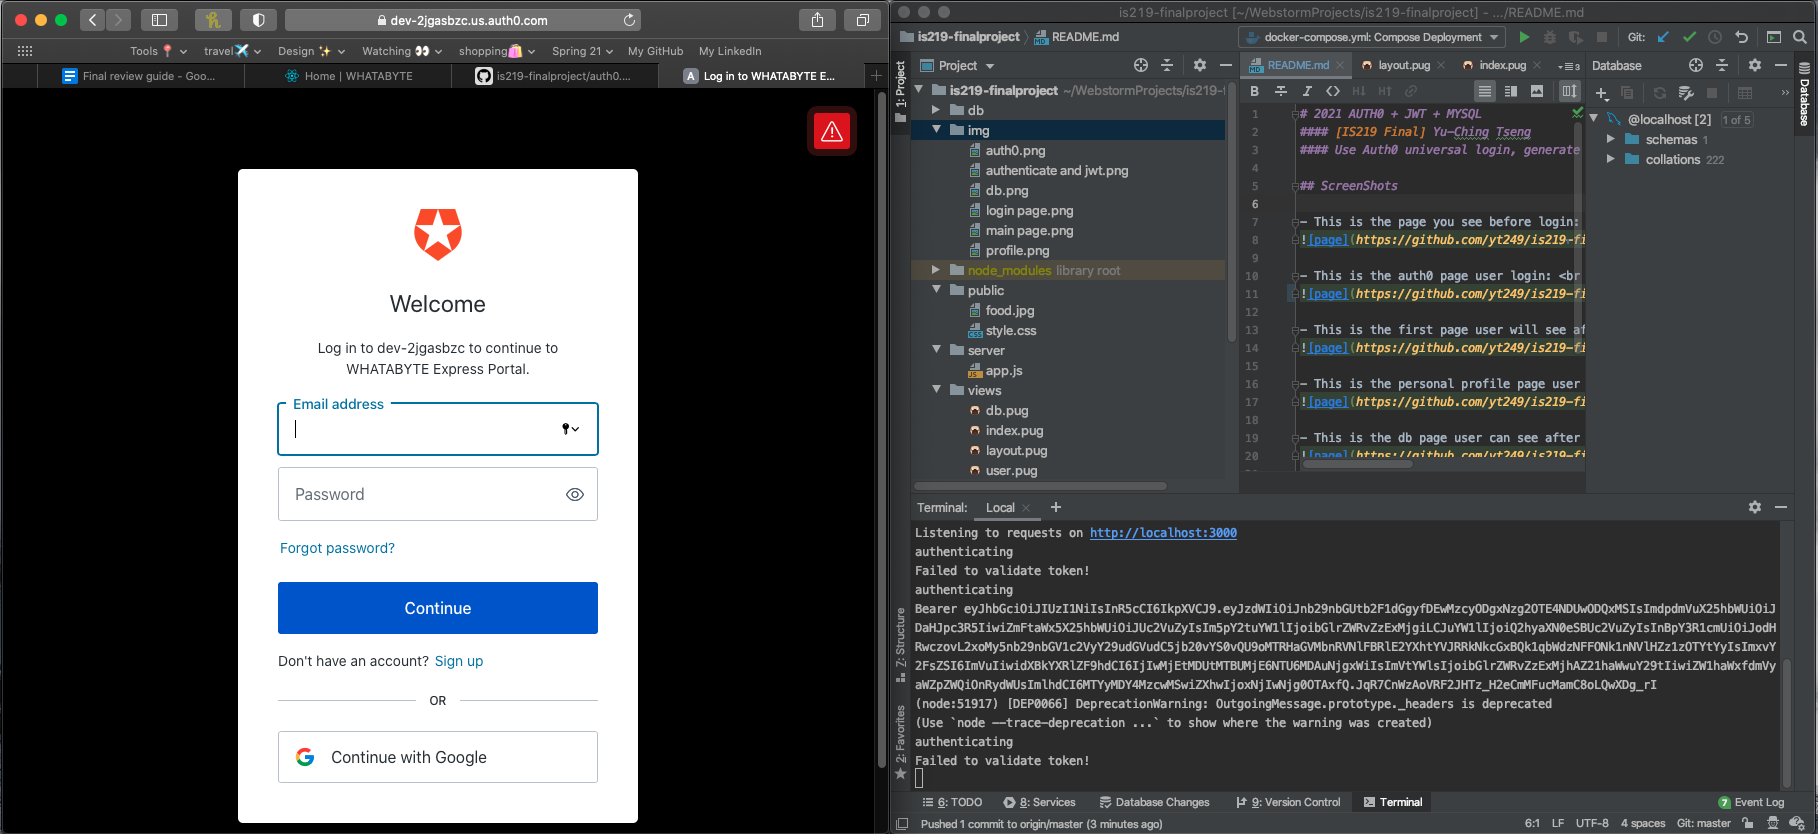
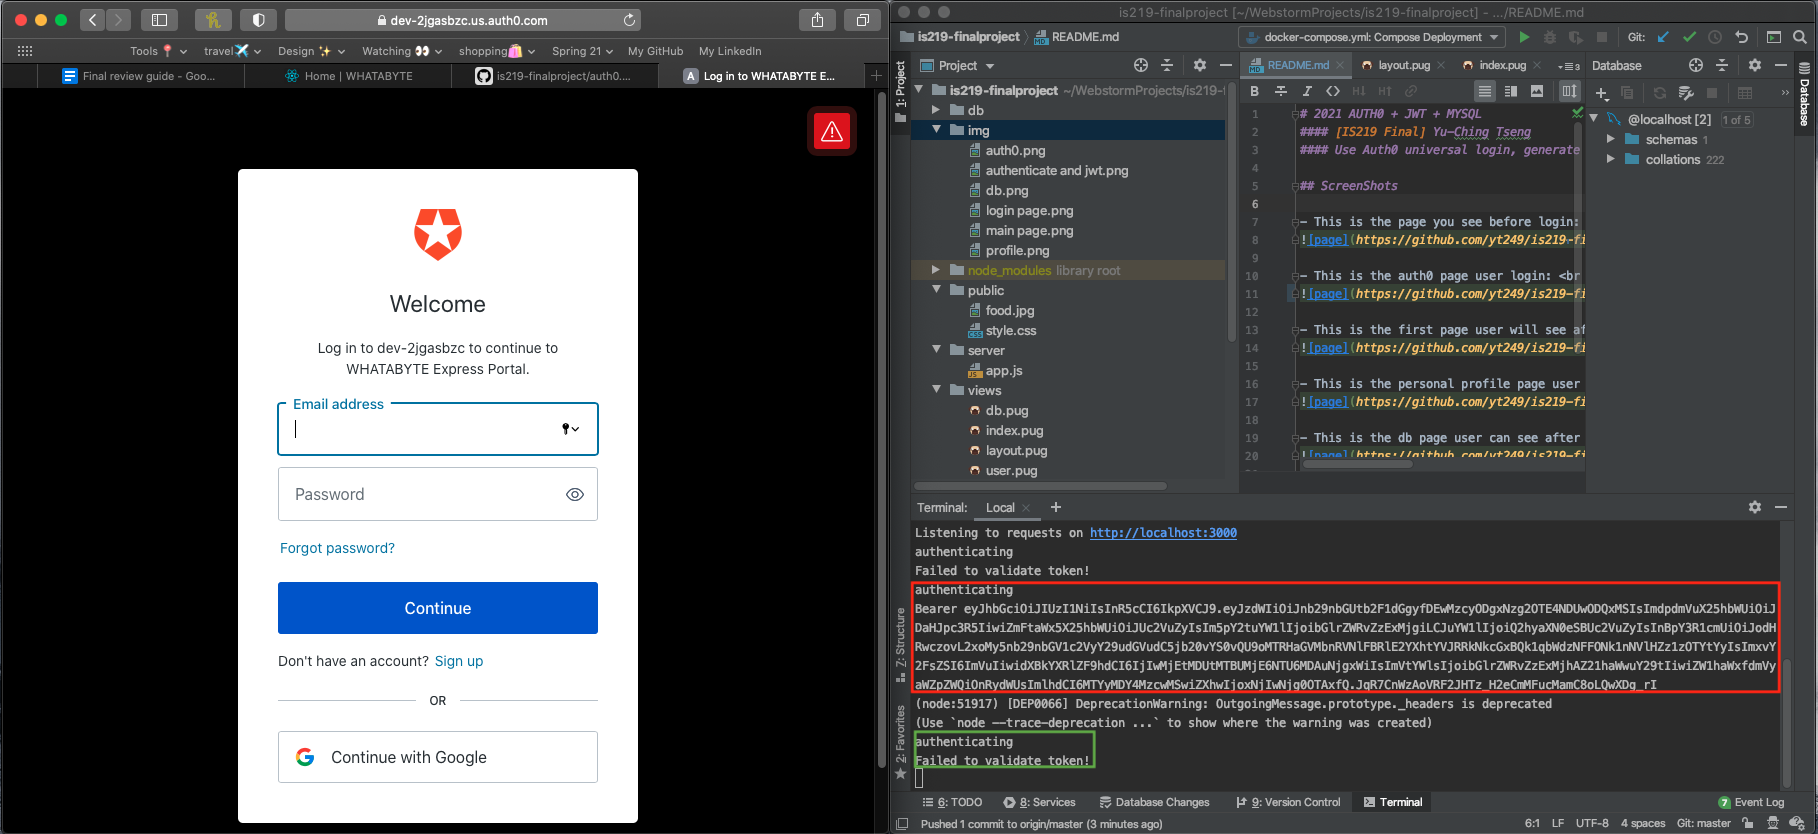
add image

Changed region(s): [[0.4928, 0.8106, 0.9857, 0.8417], [0.4928, 0.6859, 0.9857, 0.717], [0.4928, 0.8729, 0.6161, 0.9353]]

diff --git a/README.md b/README.md
@@ -21,3 +21,6 @@
 
 - Both profile and db pages are secured by JWT(shown in console for test purpose) <br />
 ![page](https://github.com/yt249/is219-finalproject/blob/master/img/authenticate%20and%20jwt.png)
+
+- 
+![page](https://github.com/yt249/is219-finalproject/blob/master/img/fail%20to%20auth.png)
